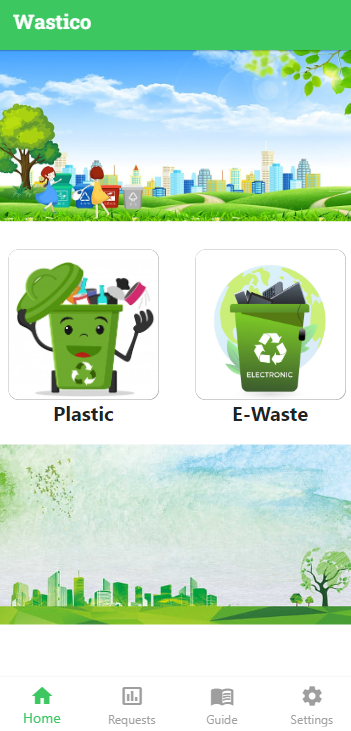
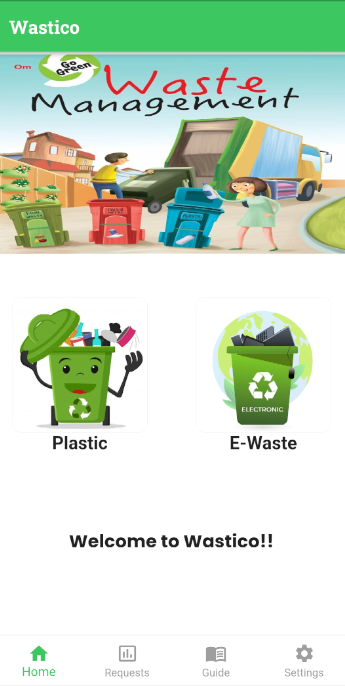
added carousal slider in home screen

diff --git a/lib/view/home_screen/home_screen.dart b/lib/view/home_screen/home_screen.dart
@@ -59,6 +59,13 @@ class _HomeScreenState extends State<HomeScreen> {
     "assets/images/carousal 4.jpg",
     "assets/images/carousal 5.jpg",
   ];
+  // List<String> MyText = [
+  //   "Welcome to Wastico!!",
+  //   "Burden of waste can be a burden for us too..",
+  //   "Introducing my App as a Solution for a Clean Society....",
+  //   "You Can Use this App for submitting waste in your home,society,etc...",
+  //   "Simple app with easy usage for public",
+  // ];
 
   @override
   Widget build(BuildContext context) {
@@ -73,23 +80,24 @@ class _HomeScreenState extends State<HomeScreen> {
         mainAxisAlignment: MainAxisAlignment.start,
         children: [
           SizedBox(
-            height: 30,
+            height: 3,
           ),
           CarouselSlider.builder(
-              itemCount: MyList.length,
-              itemBuilder: (context, index, realIndex) => Container(
-                    height: 200,
-                    width: 300,
-                    decoration: BoxDecoration(
-                      shape: BoxShape.rectangle,
-                      image: DecorationImage(
-                          image: AssetImage(MyList[index]), fit: BoxFit.fill),
-                    ),
-                  ),
-              options: CarouselOptions(
-                  autoPlay: true,
-                  scrollDirection: Axis.horizontal,
-                  viewportFraction: 1)),
+            itemCount: MyList.length,
+            itemBuilder: (context, index, realIndex) => Container(
+              height: 300,
+              width: 500,
+              decoration: BoxDecoration(
+                shape: BoxShape.rectangle,
+                image: DecorationImage(
+                    image: AssetImage(MyList[index]), fit: BoxFit.fill),
+              ),
+            ),
+            options: CarouselOptions(
+                autoPlay: true,
+                scrollDirection: Axis.horizontal,
+                viewportFraction: 1),
+          ),
           // Image.asset(
           //   ImageConstant.Cleaning,
           //   fit: BoxFit.fill,
@@ -114,8 +122,7 @@ class _HomeScreenState extends State<HomeScreen> {
                                 bottom:
                                     MediaQuery.of(context).viewInsets.bottom),
                             child: Container(
-                              height: 600,
-                              width: 600,
+                              height: 420,
                               child: Padding(
                                 padding: const EdgeInsets.all(8.0),
                                 child: Column(
@@ -249,10 +256,10 @@ class _HomeScreenState extends State<HomeScreen> {
                                         ColorConstant.MainGreen,
                                       )),
                                     ),
-                                    SizedBox(
-                                      height: 20,
-                                    ),
-                                    Image.asset(ImageConstant.Collecting),
+                                    // SizedBox(
+                                    //   height: 20,
+                                    // ),
+                                    // Image.asset(ImageConstant.Collecting),
                                   ],
                                 ),
                               ),
@@ -295,7 +302,7 @@ class _HomeScreenState extends State<HomeScreen> {
                                 bottom:
                                     MediaQuery.of(context).viewInsets.bottom),
                             child: Container(
-                              height: 700,
+                              height: 420,
                               // width: 600,
                               child: Padding(
                                 padding: const EdgeInsets.all(8.0),
@@ -431,13 +438,13 @@ class _HomeScreenState extends State<HomeScreen> {
                                         ),
                                       ),
                                     ),
-                                    SizedBox(
-                                      height: 20,
-                                    ),
-                                    Image.asset(
-                                      ImageConstant.Collecting,
-                                      fit: BoxFit.fill,
-                                    )
+                                    // SizedBox(
+                                    //   height: 5,
+                                    // ),
+                                    // Image.asset(
+                                    //   ImageConstant.Collecting,
+                                    //   fit: BoxFit.fill,
+                                    // )
                                   ],
                                 ),
                               ),
@@ -468,10 +475,47 @@ class _HomeScreenState extends State<HomeScreen> {
               ],
             ),
           ),
-          // SizedBox(
-          //   height: 10,
-          // ),
+          SizedBox(
+            height: 40,
+          ),
           //Image.asset(ImageConstant.Nature)
+          Container(
+            height: 100,
+            width: 400,
+            decoration: BoxDecoration(
+              color: ColorConstant.White,
+              borderRadius: BorderRadius.circular(20),
+            ),
+            child: Center(
+              child: Text(
+                "Welcome to Wastico!!",
+                style: GoogleFonts.poppins(
+                    fontSize: 20, fontWeight: FontWeight.bold),
+              ),
+            ),
+            // child: CarouselSlider.builder(
+            //   itemCount: MyText.length,
+            //   itemBuilder: (context, index, realIndex) => Container(
+            //     height: 200,
+            //     width: 500,
+            //     child: Center(
+            //       child: Text(
+            //         MyText[index],
+            //         style: GoogleFonts.poppins(
+            //           fontSize: 18,
+            //           fontWeight: FontWeight.bold,
+            //         ),
+            //       ),
+            //     ),
+            //   ),
+            //   options: CarouselOptions(
+            //       autoPlay: true,
+            //       scrollDirection: Axis.horizontal,
+            //       viewportFraction: 1,
+            //       enlargeCenterPage: true,
+            //       autoPlayInterval: Duration(seconds: 4)),
+            // ),
+          )
         ],
       ),
     );

diff --git a/lib/view/success_screen/success_screen.dart b/lib/view/success_screen/success_screen.dart
@@ -36,13 +36,13 @@ class _SuccessScreenState extends State<SuccessScreen> {
           crossAxisAlignment: CrossAxisAlignment.center,
           children: [
             LottieBuilder.asset("assets/images/Animation - 1704956159390.json"),
-            SizedBox(
-              height: 10,
-            ),
+            // SizedBox(
+            //   height: 10,
+            // ),
             Text(
               "Successfully Send",
               style: GoogleFonts.poppins(
-                  fontSize: 18, fontWeight: FontWeight.bold),
+                  fontSize: 25, fontWeight: FontWeight.bold),
             )
           ],
         ),

diff --git a/lib/view/requests_page/plastics_screen.dart b/lib/view/requests_page/plastics_screen.dart
@@ -30,8 +30,7 @@ class PlasticScreen extends StatelessWidget {
                         width: 300,
                         decoration: BoxDecoration(
                             color: Color.fromARGB(255, 153, 245, 163),
-                            border: Border.all(
-                                color: ColorConstant.MainGreen, width: 5),
+                            border: Border.all(color: ColorConstant.MainGreen),
                             borderRadius: BorderRadius.circular(10)),
                         child: Padding(
                           padding: const EdgeInsets.all(8.0),

diff --git a/lib/view/requests_page/e-waste_screen.dart b/lib/view/requests_page/e-waste_screen.dart
@@ -29,7 +29,7 @@ class EwasteScreen extends StatelessWidget {
                         height: 300,
                         width: 300,
                         decoration: BoxDecoration(
-                            color: Colors.white,
+                            color: Color.fromARGB(255, 153, 245, 163),
                             border: Border.all(color: ColorConstant.MainGreen),
                             borderRadius: BorderRadius.circular(10)),
                         child: Padding(

diff --git a/lib/utils/image_constant/image_constant.dart b/lib/utils/image_constant/image_constant.dart
@@ -11,7 +11,7 @@ class ImageConstant {
   static String Donts = "assets/images/wastes.jpg";
   static String Home = "assets/images/HomeScreen.png";
   static String ontap = "assets/images/ontapScreen.png";
-  static String requests = "assets/images/requestsScreen.png";
+  static String requests = "assets/images/RequestsScreen.png";
   static String Guide = "assets/images/GuideScreen.png";
   static String Settings = "assets/images/SettingsScreen.png";
 }
